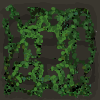
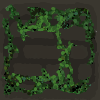
extra wall images, correction in one img

diff --git a/render.py b/render.py
@@ -85,7 +85,7 @@ class RenderPictures:
                     if terrain_value == None: pass
 
                     if terrain_value == 99:
-                        image_name = "Maze_Wall_" + str(random.randint(0, 8))
+                        image_name = "Maze_Wall_" + str(random.randint(0, 9))
                         image = ImageLoader.load_image(image_name)
 
                         position = (i, j)  # Using grid indices directly for the position
